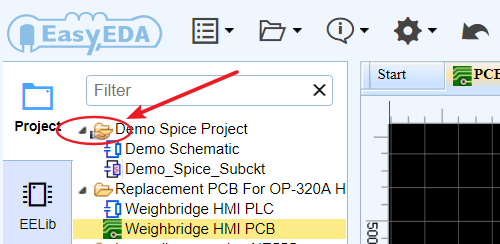
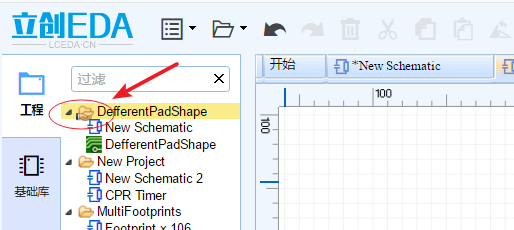
更新翻译

diff --git a/Tutorial_Chinese/Share.md b/Tutorial_Chinese/Share.md
@@ -1,55 +1,64 @@
 # 分享 
 
-Sharing your work with others is a big feature of web based EDA tools and EasyEDA is no exception in offering you some nice features.
+立创EDA为你提供了两种方式的分享功能，你可以很容易地将文件分享给其他人。
 
-## 公共分享 
+-	公开分享：将工程公开给大众，所有人可以查阅。
+-	访问控制：将工程分享给指定的人，适合保密性分享。
 
-All projects in EasyEDA are set to private by default, your private project can not be shared with anyone.  
-i.e. to make it public, you should create a new project or right click and edit your existing project to be a Public project:  
+## 公开分享 
 
-**Create New Project：**
+所有新建的工程立创EDA都默认为私有工程，你不能直接公开分享私人工程下的文件。当你想要进行分享时，你必须先将工程设为公开的。  
+
+公开工程有两种方法：
+
+1、**创建新工程** 时选择公开。
+
 ![](images/164_Share_NewPublicProject.png)  
 
-**Edit Existing Project:**    
+2、**编辑工程** 进行公开。
 
-When you click **Edit Project**, it will open a website to allow you to set your project to be public.
+直接在工程文件夹下，右键点击“编辑工程”，然后在打开的网页设置公开。
 
 ![](images/165_Share_EditProjectToPublic.png)  
 
-After setting the project as public, you will see that the Project folder Icon is now shown as a hand holding the folder.
+工程设置为公开后，工程文件夹图标会出现一个手掌分享标志，表示该工程已经公开。
 
 ![](images/166_Share_SharedProjectIcon.png)
 
-If you then open one of the documents in this share folder, you can then click the Share icon on the toolbar to open the Share my works dialog.
+打开文档后，此时再点击工具栏的分享按钮即可弹出分享窗口，可复制链接进行分享。
 
 ![](images/167_Share_SharedProjectShareIcon.png)
 
+**注意：***如果你选择了公开工程，那么该工程将出现在你的个人主页下(个人首页：https://lceda.cn/你的用户名)，任何人都可以查阅。*
+
+
+**公开工程的好处**
+
+-	可以让更多人知道你开发的作品，为自己增加名气，大家共同学习共同提高；
+-	面试时可直接投递个人主页，让面试官知道你的设计实力；
+-	可以帮助有需要的人复用你的作品，设计开源共享，为开源事业做贡献。
+
 ## 访问控制
 
-How about sharing with selected people?
+如果你只想分享给指定的人，并且允许他/她对你的工程文件进行编辑，那么你可以使用“访问控制”。
 
-Can you share a private project with your partner? Can your partner modify your designs?
-
-Yes, you can use **Access control** to do this.
-
-Right click the project and you will see the Access Control on the context menu; clicking on it will open the Access Control dialog.  
-After adding a user, a user icon will show up beside the project folder icon as below.
+选择工程，右键选择“访问控制”，输入对方的邮箱，设置权限点后击“添加用户”即可分享。
+分享成功后，工程文件夹旁边会出现一个红色的用户图标，标识该工程正通过访问控制共享。
 
 ![](images/168_Share_AccessControl.png)
 
-So if you want to share a project with someone,
+**注意：**
 
-1.  You just need to know their E-mail address which they have used to create an account with EasyEDA
+-	*你分享的人员的邮箱必须是已经在立创EDA注册的账号。*
+-	*你可以设置的分享权限有“只读”和“读写”。*
 
-2.  You can share your project as **read** **only** or **read/write**.
-
-After setting up **Access Control** and Permissions, your partner will find your project in the **Shared** section from the left **Navigation Panel** when they login.
-
-If you partner doesn’t wish to accept the shared project, they can reject it by right clicking on the project in the Shared with Me section and then clicking on Reject Sharing;
+对方可在编辑器的左边导航面板的“共享”模块查看你共享给他的工程。如果他不再接受你共享的工程，他可以在“共享”下，对工程右键选择“拒绝分享”，即可取消共享动作。
+下图第一个箭头处指的是分享人的用户名，第二个箭头指的是该工程的分享权限，RW指读写(Read 和 Write)。
 
 ![](images/169_Share_SharedWithMe.png) 
 
-And you also can check projects that your partner has shared with you in the account dashboard:  
+
+同样，你的伙伴使用访问控制共享给你的工程也是在“共享”模块查看。另外还可以在 “个人中心 > 项目 > 分享给我 ”中查看。
 
 ![](images/179_Share_SharedWithMe_Dashboard.png) 
 

diff --git a/Tutorial_Chinese/SchematicLibs.md b/Tutorial_Chinese/SchematicLibs.md
@@ -63,7 +63,7 @@
 
 -	**Dot**：是否将一个圆添加到管脚的内端，以表示逻辑(或模拟)反相。
 
--	**时针**： 是否将一个“>”添加到管脚的内端，以表示逻辑时钟输入。
+-	**时种**： 是否将一个“>”添加到管脚的内端，以表示逻辑时钟输入。
 
 -	**显示引脚**：可设置改引脚是否隐藏。当隐藏了该引脚后，放置该元件在原理图中将看不见该引脚。该隐藏功能只在原理图中体现，在原理图库编辑界面下一直保持显示状态。  
 若在原理图想将它显示，只需在元件属性中“修改器件”将“隐藏的引脚”选项取消勾选即可。  
@@ -71,7 +71,7 @@
 
 -	**电气特性**：包含Undefined(未定义)、 Input(信号输入)、Output(信号输出)、 I/O(信号输入/输出)、 Power(电源)。该功能在仿真时用。默认是Undefined。
 
--	**字体及大小**：你也可以很方便的每个管脚名字和编号设置字体与大小，方便识别。
+-	**字体及大小**：你也可以很方便的每个管脚名字和编号设置字体与大小，便于识别。
 
 **注意：**
 

diff --git a/Tutorial/Export.md b/Tutorial/Export.md
@@ -26,11 +26,7 @@ For all file formats:
 
 ### Export BOM
 
-You can **export** the Bill of Materials (BOM) for the active schematic (Document) and PCB or for the active project (i.e. the BOM for all the sheets in the project) as shown below:
-
-![](images/084_Schematic_BOM-Report.png)
-
-Or click the top toolbar `BOM` icon:
+You can **export** the Bill of Materials (BOM) for the active schematic (Document) and PCB or for the active project (i.e. the BOM for all the sheets in the project) as shown below，click the top toolbar `BOM` icon:
 
 ![](images/273_Export_BOM_Icon.png)
 
